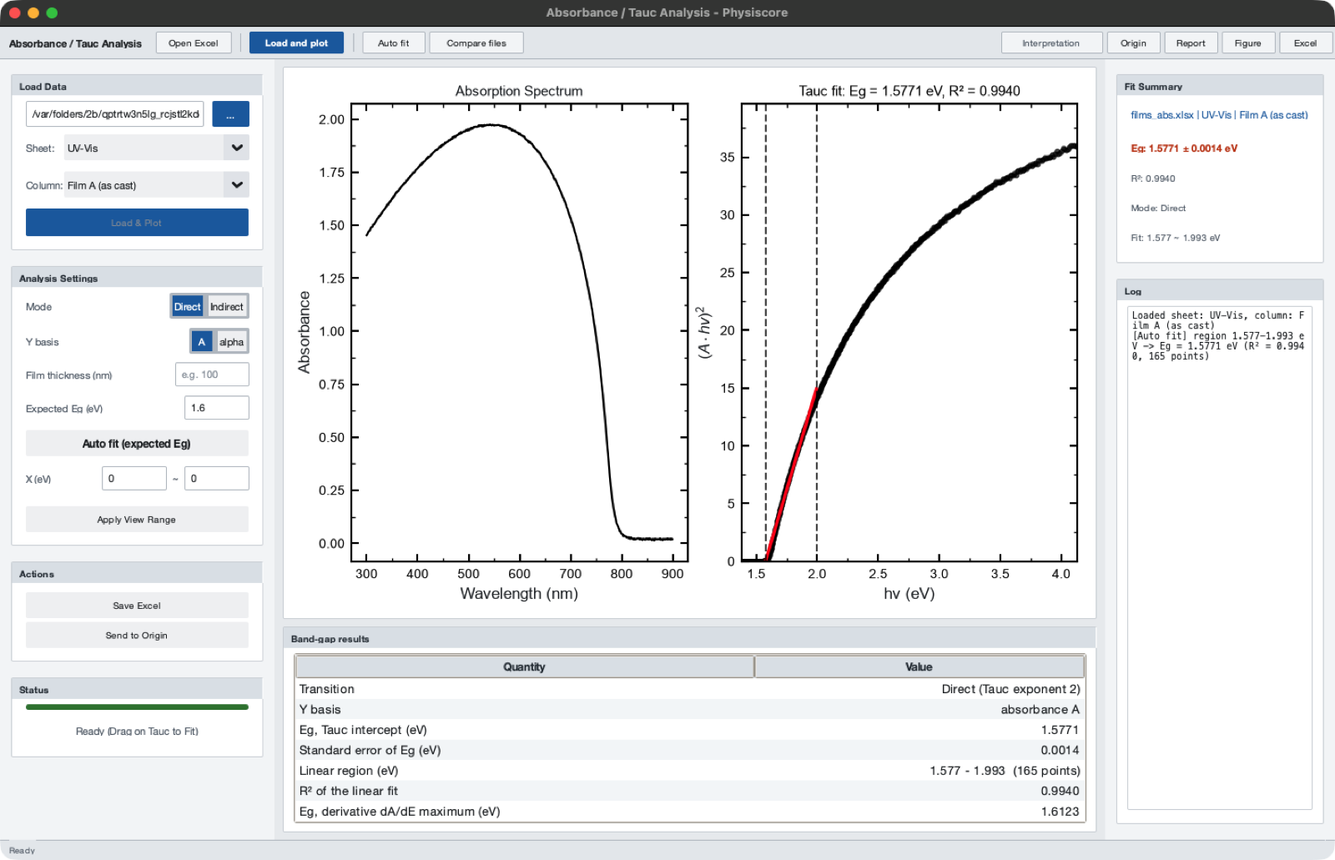
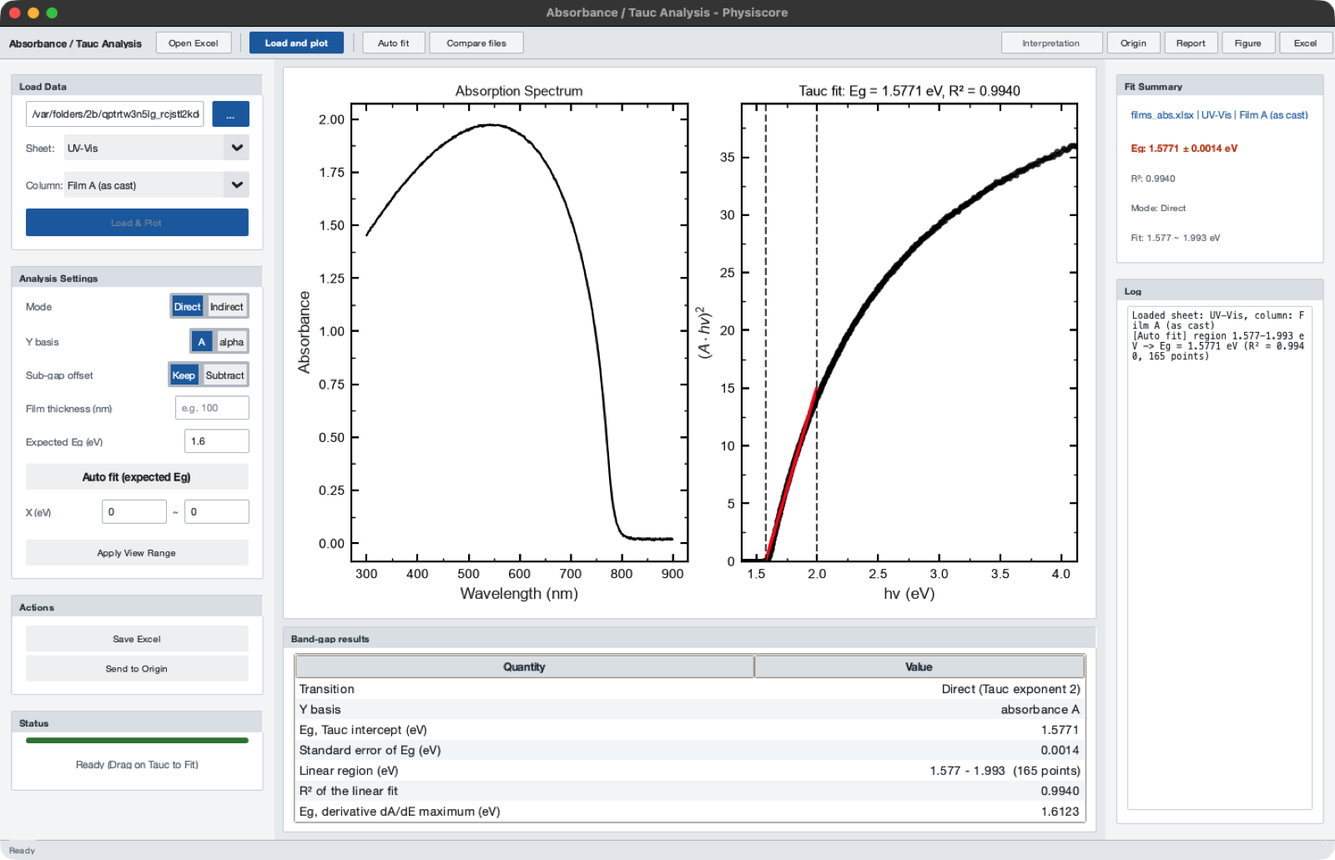
3.5.3: Sub-gap offset switch for the Tauc fit (Keep by default)
A constant sub-gap absorbance (reflection, scattering, substrate) lowers the
automatic Tauc gap: direct -10 / -23 meV at 0.02 / 0.05, indirect -87 /
-177 meV.  abs_core.subgap_offset takes the median absorbance of the
lowest-energy 5 % of the spectrum (valid only 0.15 eV or more below the
derivative band gap); analyze_absorbance(subtract_offset=True), the
Absorbance window's "Sub-gap offset: Subtract" and `physiscore abs
--subtract-offset` subtract it before the transform.  At 0.02 both gaps
come back within 1 meV.  Keep stays the default.

- Window: switch refits the current range; results table, report and Excel
  Result sheet give the offset subtracted; picture retaken.
- Interpret: the below-the-edge note points to the switch.
- Validation rows (108): Tauc with offset subtracted, indirect with and
  without; three tests (460 in all), all failing on 3.5.2.

Changed region(s): [[0.0, 0.4035, 0.2188, 0.7449], [0.0, 0.7759, 0.2188, 0.9001]]

diff --git a/scripts/Abs/run_abs.py b/scripts/Abs/run_abs.py
@@ -211,6 +211,20 @@ class AnalysisWindow(ctk.CTkToplevel):
         self.tauc_basis.set("A")
         self.tauc_basis.pack(side="right")
 
+        # Sub-gap offset (3.5.3): a constant absorbance below the gap (reflection,
+        # scattering, substrate) bends the Tauc edge and lowers the intercept
+        # (abs_core.subgap_offset); "Subtract" removes the median absorbance of
+        # the lowest-energy 5 % of the spectrum before the Tauc transform.
+        off_row = ctk.CTkFrame(ana_card, fg_color="transparent")
+        off_row.pack(fill="x", padx=16, pady=(0, 8))
+        ctk.CTkLabel(off_row, text="Sub-gap offset", text_color=self.text_secondary,
+                     font=_pal.font(12)).pack(side="left")
+        self.offset_mode = ctk.CTkSegmentedButton(
+            off_row, values=["Keep", "Subtract"], command=self._on_offset_change,
+            font=_pal.font(12), width=140)
+        self.offset_mode.set("Keep")
+        self.offset_mode.pack(side="right")
+
         thick_row = ctk.CTkFrame(ana_card, fg_color="transparent")
         thick_row.pack(fill="x", padx=16, pady=(0, 8))
         ctk.CTkLabel(thick_row, text="Film thickness (nm)", text_color=self.text_secondary,
@@ -584,6 +598,17 @@ class AnalysisWindow(ctk.CTkToplevel):
         # y-axis magnitude and label differ.
         hv = self.data_state["x"]
         A = self.absorbance
+        self.a_offset = float("nan")
+        om = getattr(self, "offset_mode", None)
+        if om is not None and om.get() == "Subtract" and self.raw_x is not None:
+            off = abs_core.subgap_offset(self.raw_x, self.raw_y, abs_core.derivative_bandgap(self.raw_x, self.raw_y))
+            if np.isfinite(off["offset"]):
+                self.a_offset = off["offset"]
+                A = np.clip(np.asarray(A, dtype=float) - self.a_offset, 0, None)
+                self.log(f"[Offset] subtracted A = {self.a_offset:.4g} (median of {off['n_points']} points, "
+                         f"{off['e_lo']:.3f}-{off['e_hi']:.3f} eV)")
+            else:
+                self.log("[Offset] not subtracted: the spectrum does not reach 0.15 eV below the edge.")
 
         basis = getattr(self, "tauc_basis", None)
         basis = basis.get() if basis is not None else "A"
@@ -613,6 +638,19 @@ class AnalysisWindow(ctk.CTkToplevel):
             return float(self.entry_thickness.get())
         except (ValueError, AttributeError, TypeError):
             return None
+
+    def _on_offset_change(self, _value=None):
+        """Recompute the Tauc curve with or without the sub-gap offset and refit
+        the current range, so the fit line and the results follow the switch."""
+        if self.data_state.get("x") is None:
+            return
+        self._recompute_tauc_y(self.mode_btn.get())
+        self.line_tauc.set_ydata(self.data_state["y"])
+        self._autoscale_y()
+        if self.fit_result:
+            self._on_span_select(self.fit_result["fitMin"], self.fit_result["fitMax"])
+            self._update_result_table()
+        self.canvas.draw_idle()
 
     def _on_basis_change(self, _value=None):
         if self.data_state.get("x") is None:
@@ -826,6 +864,7 @@ class AnalysisWindow(ctk.CTkToplevel):
             "Eu_meV": float(urb["Eu_meV"]),
             "Eu_R2": float(urb["R2"]),
             "Eg_derivative": float(eg_der),
+            "A_offset": float(getattr(self, "a_offset", float("nan"))),
             "n_points": int(lin["n_points"]),
             "R2": float(R2) if np.isfinite(R2) else np.nan,
             "m": float(m),
@@ -895,7 +934,8 @@ class AnalysisWindow(ctk.CTkToplevel):
                  ("R² of the linear fit", r["R2"], ".4f"),
                  ("Eg, derivative dA/dE maximum (eV)", r.get("Eg_derivative", float('nan')), ".4f"),
                  ("Urbach energy below the edge (meV)", r.get("Eu_meV", float('nan')), ".1f"),
-                 ("Urbach fit R²", r.get("Eu_R2", float('nan')), ".4f")]
+                 ("Urbach fit R²", r.get("Eu_R2", float('nan')), ".4f"),
+                 ("Sub-gap offset subtracted", f"{r['A_offset']:.4g}" if np.isfinite(r.get("A_offset", float("nan"))) else "none")]
         _theme.fill_kv(self.result_tree, items)
 
     def export_report(self):
@@ -906,7 +946,7 @@ class AnalysisWindow(ctk.CTkToplevel):
         if not path:
             return
         r = self.fit_result
-        table = {"Transition": r["mode"], "Eg Tauc (eV)": r["Eg"], "Eg standard error (eV)": r.get("Eg_err"),
+        table = {"Transition": r["mode"], "Sub-gap offset subtracted": r.get("A_offset"), "Eg Tauc (eV)": r["Eg"], "Eg standard error (eV)": r.get("Eg_err"),
                  "Linear region (eV)": f"{r['fitMin']:.3f}-{r['fitMax']:.3f}", "R2": r["R2"],
                  "Eg derivative (eV)": r.get("Eg_derivative"), "Urbach energy (meV)": r.get("Eu_meV"),
                  "Urbach R2": r.get("Eu_R2")}
@@ -963,6 +1003,7 @@ class AnalysisWindow(ctk.CTkToplevel):
             "Eg derivative (eV)": res.get("Eg_derivative"),
             "Urbach energy (meV)": res.get("Eu_meV"),
             "Urbach R2": res.get("Eu_R2"),
+            "Sub-gap offset subtracted": res.get("A_offset"),
         }])
 
         df_uvvis = pd.DataFrame({

diff --git a/scripts/Abs/abs_core.py b/scripts/Abs/abs_core.py
@@ -219,14 +219,52 @@ def derivative_bandgap(wavelength_nm, absorbance, smooth_window: int = 7) -> flo
     return float(hv[int(np.argmax(cand))])
 
 
+def subgap_offset(wavelength_nm, absorbance, edge_ev: Optional[float] = None,
+                  fraction: float = 0.05, clearance_ev: float = 0.15) -> Dict[str, float]:
+    """Sub-gap absorbance offset (reflection, scattering, substrate): the median
+    absorbance of the lowest-energy ``fraction`` of the spectrum (at least 5
+    points).  When ``edge_ev`` is given, the offset is valid only if that
+    stretch ends at least ``clearance_ev`` below the edge; otherwise it is NaN
+    (the spectrum does not reach far enough below the gap).
+
+    A constant offset A0 bends the Tauc edge, (A + A0)^2 hv^2 containing a term
+    in A0 sqrt(hv - Eg): the automatic Tauc gap of a direct edge comes out 10 meV
+    low at A0 = 0.02 and 23 meV at 0.05 (indirect 87 and 177 meV)."""
+    wl = np.asarray(wavelength_nm, dtype=float)
+    a = np.asarray(absorbance, dtype=float)
+    ok = np.isfinite(wl) & np.isfinite(a) & (wl > 0)
+    e, a = HC_EV_NM / wl[ok], a[ok]
+    out = {"offset": float("nan"), "e_lo": float("nan"), "e_hi": float("nan"), "n_points": 0}
+    if len(e) < 20:
+        return out
+    order = np.argsort(e)
+    e, a = e[order], a[order]
+    n = max(5, int(round(fraction * len(e))))
+    out.update(e_lo=float(e[0]), e_hi=float(e[n - 1]), n_points=int(n))
+    if edge_ev is not None and np.isfinite(edge_ev) and e[n - 1] > float(edge_ev) - clearance_ev:
+        return out
+    out["offset"] = float(np.median(a[:n]))
+    return out
+
+
 def analyze_absorbance(wavelength_nm, absorbance, mode: str = "direct",
                        thickness_nm: Optional[float] = None,
-                       expected_eg: Optional[float] = None) -> Dict[str, float]:
+                       expected_eg: Optional[float] = None,
+                       subtract_offset: bool = False) -> Dict[str, float]:
     """Tauc Eg with its automatically selected region, derivative Eg and the
-    Urbach energy of the tail just below the Tauc region."""
+    Urbach energy of the tail just below the Tauc region.  With
+    ``subtract_offset`` the sub-gap offset (subgap_offset, checked against the
+    derivative band gap) is subtracted before the Tauc transform; ``A_offset``
+    reports it (NaN when nothing was subtracted)."""
+    a_off = float("nan")
+    if subtract_offset:
+        off = subgap_offset(wavelength_nm, absorbance, derivative_bandgap(wavelength_nm, absorbance))
+        if np.isfinite(off["offset"]):
+            a_off = off["offset"]
+            absorbance = np.asarray(absorbance, dtype=float) - a_off
     hv, y, label = tauc_transform(wavelength_nm, absorbance, mode, thickness_nm)
     reg = auto_linear_region(hv, y, expected_eg=expected_eg)
-    out = {"mode": mode, "Eg_Tauc_eV": reg["Eg"], "Eg_err_eV": reg["Eg_err"], "Tauc_R2": reg["R2"],
+    out = {"mode": mode, "A_offset": a_off, "Eg_Tauc_eV": reg["Eg"], "Eg_err_eV": reg["Eg_err"], "Tauc_R2": reg["R2"],
            "Tauc_lo_eV": reg["lo"], "Tauc_hi_eV": reg["hi"], "Tauc_slope": reg["slope"],
            "Tauc_intercept": reg["intercept"], "Eg_derivative_eV": derivative_bandgap(wavelength_nm, absorbance),
            "y_label": label}

diff --git a/tests/test_abs_core.py b/tests/test_abs_core.py
@@ -108,3 +108,35 @@ def test_degenerate_inputs_do_not_raise():
     assert np.isnan(reg["Eg"])
     assert ac.linear_fit([1, 2], [1, 2], 1, 2)["n_points"] == 2
     assert np.isnan(ac.derivative_bandgap([500, 600], [0.1, 0.2]))
+
+
+@pytest.mark.parametrize("mode,low_meV", [("direct", 9.0), ("indirect", 80.0)])
+def test_subgap_offset_removes_the_low_tauc_bias(mode, low_meV):
+    """A constant sub-gap absorbance of 0.02 lowers the automatic Tauc gap by
+    10 meV (direct) and 87 meV (indirect); subtracting the offset (3.5.3)
+    brings both within 2 meV."""
+    wl = np.arange(350.0, 1000.0 + 1e-9, 1.0)
+    e = ac.HC_EV_NM / wl
+    eg, eps, eu = 1.60, 0.002, 0.02
+    if mode == "direct":
+        edge = np.where(e >= eg, 1.2 * np.sqrt(np.clip(e - eg + eps, 0, None)) / e,
+                        1.2 * np.sqrt(eps) / eg * np.exp((e - eg) / eu))
+    else:
+        edge = np.where(e >= eg, 0.8 * np.clip(e - eg + eps, 0, None) ** 2 / e, 0.8 * eps ** 2 / eg * np.exp((e - eg) / eu))
+    a = edge + 0.02 + np.random.default_rng(0).normal(0, 0.0005, e.size)
+    keep = ac.analyze_absorbance(wl, a, mode)
+    sub = ac.analyze_absorbance(wl, a, mode, subtract_offset=True)
+    assert 1000 * ((eg - eps) - keep["Eg_Tauc_eV"]) > low_meV
+    assert np.isnan(keep["A_offset"])
+    assert sub["A_offset"] == pytest.approx(0.02, abs=0.001)
+    assert sub["Eg_Tauc_eV"] == pytest.approx(eg - eps, abs=0.002)
+
+
+def test_subgap_offset_needs_data_below_the_edge():
+    """A spectrum that stops 15 nm below a 1.60 eV edge gives no offset."""
+    wl = np.arange(350.0, 790.0, 1.0)
+    e = ac.HC_EV_NM / wl
+    a = np.where(e >= 1.6, 1.2 * np.sqrt(np.clip(e - 1.598, 0, None)) / e, 0.054 / 1.6 * np.exp((e - 1.6) / 0.02)) + 0.02
+    off = ac.subgap_offset(wl, a, ac.derivative_bandgap(wl, a))
+    assert np.isnan(off["offset"])
+    assert np.isnan(ac.analyze_absorbance(wl, a, "direct", subtract_offset=True)["A_offset"])

diff --git a/physiscore_cli.py b/physiscore_cli.py
@@ -144,8 +144,10 @@ def cmd_eqe(a):
 def cmd_abs(a):
     from scripts.Abs import abs_core
     x, y, col, _ = _read_xy(a.file, a.sheet, a.column)
-    r = abs_core.analyze_absorbance(x, y, mode=a.mode, thickness_nm=a.thickness, expected_eg=a.expected_eg)
-    lines = [f"Absorbance: {a.file} [{col}], {a.mode} transition",
+    r = abs_core.analyze_absorbance(x, y, mode=a.mode, thickness_nm=a.thickness, expected_eg=a.expected_eg,
+                                    subtract_offset=a.subtract_offset)
+    lines = [f"Absorbance: {a.file} [{col}], {a.mode} transition"
+             + (f", sub-gap offset {_fmt(r['A_offset'], '.4g')} subtracted" if a.subtract_offset else ""),
              f"  Eg (Tauc)             {_fmt(r['Eg_Tauc_eV'], '.4f')} +- {_fmt(r['Eg_err_eV'], '.4f')} eV  "
              f"(region {_fmt(r['Tauc_lo_eV'], '.3f')}-{_fmt(r['Tauc_hi_eV'], '.3f')} eV, R2 {_fmt(r['Tauc_R2'], '.4f')})",
              f"  Eg (derivative)       {_fmt(r['Eg_derivative_eV'], '.4f')} eV",
@@ -544,6 +546,8 @@ def build_parser() -> argparse.ArgumentParser:
     p = sub.add_parser("abs", help="UV-Vis absorbance (wavelength nm, A)"); p.add_argument("file")
     p.add_argument("--sheet"); p.add_argument("--column"); p.add_argument("--mode", default="direct", choices=sorted(["direct", "indirect", "direct_forbidden", "indirect_forbidden"]))
     p.add_argument("--thickness", type=float, default=None, help="film thickness (nm) to report alpha"); p.add_argument("--expected-eg", type=float, default=None)
+    p.add_argument("--subtract-offset", action="store_true",
+                   help="subtract the sub-gap absorbance (median of the lowest-energy 5 %%) before the Tauc fit")
     common(p); p.set_defaults(func=cmd_abs)
 
     p = sub.add_parser("xrd", help="XRD pattern (2theta, intensity)"); p.add_argument("file")

diff --git a/tools/validation_report.py b/tools/validation_report.py
@@ -184,6 +184,15 @@ def absorbance():
                  1.2 * np.sqrt(eps) / eg * np.exp((e - eg) / eu)) + 0.02
     r = abs_core.analyze_absorbance(wl, a, "direct")
     record("Abs", "Eg, automatic Tauc region", eg - eps, r["Eg_Tauc_eV"], "eV", "direct edge with Urbach tail")
+    rs = abs_core.analyze_absorbance(wl, a, "direct", subtract_offset=True)
+    record("Abs", "Eg, automatic Tauc region, offset subtracted", eg - eps, rs["Eg_Tauc_eV"], "eV",
+           "same edge; sub-gap offset 0.02 subtracted")
+    ai = np.where(e >= eg, 0.8 * np.clip(e - eg + eps, 0, None) ** 2 / e, 0.8 * eps ** 2 / eg * np.exp((e - eg) / eu)) + 0.02
+    record("Abs", "Eg, indirect edge, automatic Tauc region", eg - eps,
+           abs_core.analyze_absorbance(wl, ai, "indirect")["Eg_Tauc_eV"], "eV", "sub-gap offset 0.02 kept")
+    record("Abs", "Eg, indirect edge, offset subtracted", eg - eps,
+           abs_core.analyze_absorbance(wl, ai, "indirect", subtract_offset=True)["Eg_Tauc_eV"], "eV",
+           "sub-gap offset 0.02 subtracted")
     record("Abs", "Eg, derivative", eg, r["Eg_derivative_eV"], "eV", "max dA/dE")
     a2 = np.where(e >= eg, 1.2 * np.sqrt(np.clip(e - eg + eps, 0, None)) / e, 1.2 * np.sqrt(eps) / eg * np.exp((e - eg) / 0.025))
     record("Abs", "Urbach energy", 25.0, abs_core.urbach_from_absorbance(wl, a2, eg - 0.2, eg - 0.03)["Eu_meV"], "meV", "ln A vs E")

diff --git a/scripts/common/interpret.py b/scripts/common/interpret.py
@@ -555,8 +555,8 @@ def interpret_absorbance(res: dict, other_mode_r2: Optional[float] = None, subje
             rep.add("note", "Tauc versus derivative", f"The Tauc gap is {d:.0f} meV below the steepest point of "
                     "the edge: a sub-gap absorbance offset (reflection, scattering, substrate), a tail or an "
                     "excitonic feature bends the edge and lowers the extrapolation.", ev, "difference > 40 meV", ref,
-                    "Subtract the sub-gap baseline absorbance and fit again; quote both values, or use the EQE "
-                    "band gap (Rau) of a device.")
+                    "Set Sub-gap offset to Subtract (Absorbance window) and fit again; quote both values, or use "
+                    "the EQE band gap (Rau) of a device.")
         elif d < -40:
             # synthetic direct edge on a scattering background 0.05 (500 nm/λ)^4: the
             # steepest point of the Tauc curve, and so the region, moved to 2.9-3.5 eV

diff --git a/docs/release-notes/3.5.3.md b/docs/release-notes/3.5.3.md
@@ -7,14 +7,15 @@ Physiscore 3.5.3 is a second correction of the auto-fit workspace: the **XPS** t
 - **Repeated XRD rows.** Weak peaks on the flank of a strong reflection were fitted onto that reflection, so its row could appear three times. Such fits are now dropped.
 - **Single-point fits.** Fitted to unsmoothed data, a noise peak could shrink onto one bright point. Every line is now at least two data steps wide (or half its detected width, if that is smaller).
 - **PL band width with an offset.** The PL window does not subtract a baseline by default (Raw), and its single-band fit had no constant, so a dark-count offset widened the band: by 7.6 % for an offset of 5 % of the peak. The fit now includes a constant and gives the width within 0.1 % in the same case.
+- **Absorbance: Sub-gap offset.** A constant absorbance below the gap (reflection, scattering, substrate) makes the automatic Tauc gap too low: by 10 meV at an offset of 0.02 for a direct edge, by 87 meV for an indirect one. The new **Sub-gap offset** switch (Keep by default, so your numbers do not change unless you choose it) subtracts the absorbance measured far below the gap, which brings both cases within 1 meV. It does not correct interference fringes.
 - **Absorbance: band gap above the edge.** When the automatic Tauc region lands above the absorption edge (a scattering background or interference fringes can pull it there), **Interpret** now warns and asks for the expected gap or a hand-set range. Before, it only noted the difference and blamed a tail.
 
 ### Checks
-- Seven new rows in the validation table (105 in all) and 10 new tests (457 in all). Every new test fails on 3.5.2.
+- Ten new rows in the validation table (108 in all) and 13 new tests (460 in all). Every new test fails on 3.5.2.
 
 ### Known limitations
 - **XRD auto-fit areas** come out 5 to 10 % low on the synthetic pattern, because the baseline follows part of the line tails. With the true background subtracted they are within 1 %. Compare areas between patterns processed with the same settings.
-- **Automatic Tauc region.** A constant absorbance below the gap (reflection, scattering, substrate) lowers the automatic Tauc gap: by 10 meV at 0.02 and 23 meV at 0.05 for a direct edge, by 87 and 177 meV for an indirect one. Subtract that baseline absorbance before the Tauc fit. The Tauc method itself is unchanged in this version.
+- **Automatic Tauc region.** Without the offset switch, the gap stays low as described above (23 meV for a direct edge at an offset of 0.05). A background rising towards short wavelengths can pull the automatic region above the edge; **Interpret** then warns. The region selection itself is unchanged in this version.
 
 ### Install or update
 Installed copies offer this version in the Updates tab (or download it with your setting). Otherwise download the file for your system below; SHA256SUMS.txt lists the checksums.

diff --git a/CHANGELOG.md b/CHANGELOG.md
@@ -45,17 +45,27 @@ absorbance interpretation rule changed.
   every auto-fit Voigt is now at least min(2 grid steps, half the seed FWHM).
 
 ### Added
-- Seven validation rows (105 in total): PL FWHM with an offset under Raw processing, XRD pipeline FWHM of the 0.11 deg line and of a
+- Ten validation rows (108 in total): Tauc gap with the offset subtracted, indirect Tauc
+  gap with and without the offset, PL FWHM with an offset under Raw processing, XRD pipeline FWHM of the 0.11 deg line and of a
   Lorentzian-dominated line, XRD pipeline area (the baseline limit below), XPS FWHM on a
   0.2 eV scan, and the doublet-mode 4f7/2 area and Pb0/Pb2+ ratio.
-- `tests/test_autofit_raw.py` (8 tests), a Tauc rule test and a PL offset test (457 in
-  all); every new test fails on 3.5.2.
+- `tests/test_autofit_raw.py` (8 tests), a Tauc rule test, a PL offset test and three
+  sub-gap offset tests (460 in all); every new test fails on 3.5.2.
 
 - **PL single-band width with an offset.** The single Gaussian had no constant term, and
   the PL window's default processing (Raw) subtracts no baseline: a dark-count offset of
   2, 5 and 10 % of the peak widened a 40 nm band by 2.9, 7.6 and 17 %. The band is now a
   Gaussian plus a constant (`fit_peak_gaussian` also returns `offset`); the same cases
   give 40.0 nm, and the overlapping-band validation row goes from +7.1 to +6.3 %.
+
+- **Absorbance: Sub-gap offset.** New switch in the Absorbance window (Keep by default,
+  so existing numbers are unchanged), `physiscore abs --subtract-offset` and
+  `analyze_absorbance(subtract_offset=True)`:
+  `subgap_offset` takes the median absorbance of the lowest-energy 5 % of the spectrum
+  (only if it lies 0.15 eV or more below the edge) and subtracts it before the Tauc
+  transform. With a constant offset of 0.02 the automatic gap goes from -10 to -0.8 meV
+  (direct) and from -87 to -0.8 meV (indirect). Not a fringe correction. The results
+  table and the report give the offset subtracted.
 
 ### Changed
 - **Absorbance interpretation, Tauc versus derivative.** A Tauc gap more than 40 meV
@@ -77,6 +87,7 @@ absorbance interpretation rule changed.
   absorbance A0 lowers the direct gap by 10 meV at A0 = 0.02 and 23 meV at 0.05 (indirect
   87 and 177 meV), independent of the Urbach energy, and a background rising towards
   short wavelengths or fringes can move the region above the edge (METHODS section 4).
+  The Sub-gap offset switch corrects the first; the second is flagged by Interpret.
   The earlier note that the Urbach tail causes the low gap was wrong: with A0 = 0 the
   gap is within 1 meV for Urbach energies of 15 to 50 meV.
 

diff --git a/docs/VALIDATION.md b/docs/VALIDATION.md
@@ -16,7 +16,7 @@ regenerated with
 python tools/validation_report.py          # or: python physiscore_cli.py validate
 ```
 
-and the same cases are enforced as unit tests in `tests/` (`pytest`, 457 tests).
+and the same cases are enforced as unit tests in `tests/` (`pytest`, 460 tests).
 Measured-data checks (a perovskite XRD pattern, XPS region scans) run when a local
 `rawdata/` folder is present and are skipped otherwise, because those measurements
 are unpublished.
@@ -25,7 +25,9 @@ Known, documented limitations visible in the table: a single Gaussian fitted to 
 with an unresolved neighbour is biased (+6 % FWHM; the multi-component fit removes most of
 it), the plain mean of a lattice parameter keeps a specimen-displacement error that the
 Nelson-Riley extrapolation removes, and the Rau band gap of an error-function edge sits
-within 1 meV of its centre. The transport rows with noise show what the noise allows, not
+within 1 meV of its centre. The automatic Tauc region is biased low by a constant sub-gap
+absorbance (0.02 here: -10 meV for the direct edge, -87 meV for the indirect one); the rows
+with the offset subtracted (3.5.3) show the correction. The transport rows with noise show what the noise allows, not
 a bias of the method: TRPL lifetimes within about 1 % at 10^4 peak counts, impedance
 parameters within 0.1 % at 0.3 % noise, and the burn-in loss and the loss rate of a
 stability trace within 4 % at 0.4 % noise (the two trade against each other in the fit,
@@ -77,6 +79,9 @@ the doublet mode then returned four doublets for the two of the Pb 4f example.
 | EQE | SQ Jsc at 1.34 eV | 35.4 | 35.0189 | mA/cm2 | -1.077 |  |
 | EQE | AM1.5G integral | 1000.4 | 1000.37 | W/m2 | -0.003 | ASTM G173-03 table |
 | Abs | Eg, automatic Tauc region | 1.598 | 1.588 | eV | -0.626 | direct edge with Urbach tail |
+| Abs | Eg, automatic Tauc region, offset subtracted | 1.598 | 1.59724 | eV | -0.048 | same edge; sub-gap offset 0.02 subtracted |
+| Abs | Eg, indirect edge, automatic Tauc region | 1.598 | 1.51078 | eV | -5.458 | sub-gap offset 0.02 kept |
+| Abs | Eg, indirect edge, offset subtracted | 1.598 | 1.59719 | eV | -0.051 | sub-gap offset 0.02 subtracted |
 | Abs | Eg, derivative | 1.6 | 1.60394 | eV | +0.246 | max dA/dE |
 | Abs | Urbach energy | 25 | 25 | meV | +0.000 | ln A vs E |
 | XRD | 2theta @ 28.2 deg | 28.2 | 28.2001 | deg | +0.000 | overlapping doublet, dtheta = 0.40 deg, ALS background |

diff --git a/docs/USER_GUIDE.md b/docs/USER_GUIDE.md
@@ -304,14 +304,18 @@ Urbach_Data, DetailedBalance) and its side-car; Report; Origin.
 2. **Load and plot** - absorption spectrum and Tauc plot.
 3. Choose **Direct** or **Indirect** (Tauc exponent 2 or 1/2). *Y basis* A or alpha:
    with a film thickness, α = 2.303·A/d is used; the band gap does not change, only the
-   y scale.
+   y scale. *Sub-gap offset* Keep or Subtract: a constant absorbance below the gap
+   (reflection, scattering, substrate) lowers the Tauc gap, by about 10 meV at 0.02 for a
+   direct edge and 87 meV for an indirect one; Subtract removes the median absorbance of
+   the lowest-energy 5 % of the spectrum (it must lie at least 0.15 eV below the edge;
+   the log says when it does not). It does not correct interference fringes (3.5.3).
 4. **Auto fit** - selects the linear part of the edge automatically (see METHODS §4);
    *Expected Eg* (optional) restricts the search to ±0.6 eV around it. Or drag across
    the Tauc plot to fit your own range.
 
 The **Band-gap results** table gives the Tauc band gap with its standard error, the
 region and number of points, R², the derivative band gap (maximum of dA/dE) and the
-Urbach energy below the edge. Outputs: `<file>_result.xlsx` (Result, UV-Vis, Tauc_Data)
+Urbach energy below the edge, and the sub-gap offset subtracted (if any). Outputs: `<file>_result.xlsx` (Result, UV-Vis, Tauc_Data)
 and side-car; Report; Origin.
 
 ## 8. PL

diff --git a/docs/METHODS.md b/docs/METHODS.md
@@ -111,8 +111,12 @@ from the fit covariance (Makuła, Pacia & Macyk, J. Phys. Chem. Lett. 9, 6814 (2
 Limits found on synthetic edges (3.5.3): a constant sub-gap absorbance A₀ (reflection,
 scattering, substrate) bends the transformed edge, (A + A₀)²hν² containing a term
 ∝ A₀√(hν − E_g), so the direct gap comes out 10 meV low at A₀ = 0.02 and 23 meV at 0.05
-(indirect: 87 and 177 meV), the same for Urbach energies of 15 to 50 meV; subtracting A₀
-before the transform removes it. A background that rises towards short wavelengths
+(indirect: 87 and 177 meV), the same for Urbach energies of 15 to 50 meV. `subgap_offset`
+estimates A₀ as the median absorbance of the lowest-energy 5 % of the spectrum (at least 5
+points, valid only if they end ≥ 0.15 eV below the derivative band gap); subtracting it
+before the transform (*Sub-gap offset: Subtract*, `analyze_absorbance(subtract_offset=True)`;
+default Keep) returns both gaps within 1 meV (VALIDATION). With interference fringes the
+median lands on a fringe and the correction does not help. A background that rises towards short wavelengths
 (0.05·(500 nm/λ)⁴) or interference fringes can move the steepest point, and so the
 region, above the edge (+0.4 to +0.8 eV for a direct edge); the edge-position rule (§16)
 then warns. Give the expected gap or set the range by hand in such cases.

diff --git a/docs/CLI.md b/docs/CLI.md
@@ -62,8 +62,12 @@ JSON keys include `Jsc_mA_cm2`, `Eg_Rau_eV`, `Eg_sigma_eV`, `Eg_inflection_eV`,
 
 ```
 physiscore abs FILE [--sheet NAME] [--column NAME] [--mode direct|indirect|direct_forbidden|indirect_forbidden]
-                   [--thickness NM] [--expected-eg EV] [--json]
+                   [--thickness NM] [--expected-eg EV] [--subtract-offset] [--json]
 ```
+
+`--subtract-offset` subtracts the sub-gap absorbance (median of the lowest-energy 5 % of the
+spectrum, which must lie 0.15 eV or more below the edge) before the Tauc fit; a constant
+offset otherwise lowers the gap (METHODS §4). Added in 3.5.3.
 
 ## xrd
 
